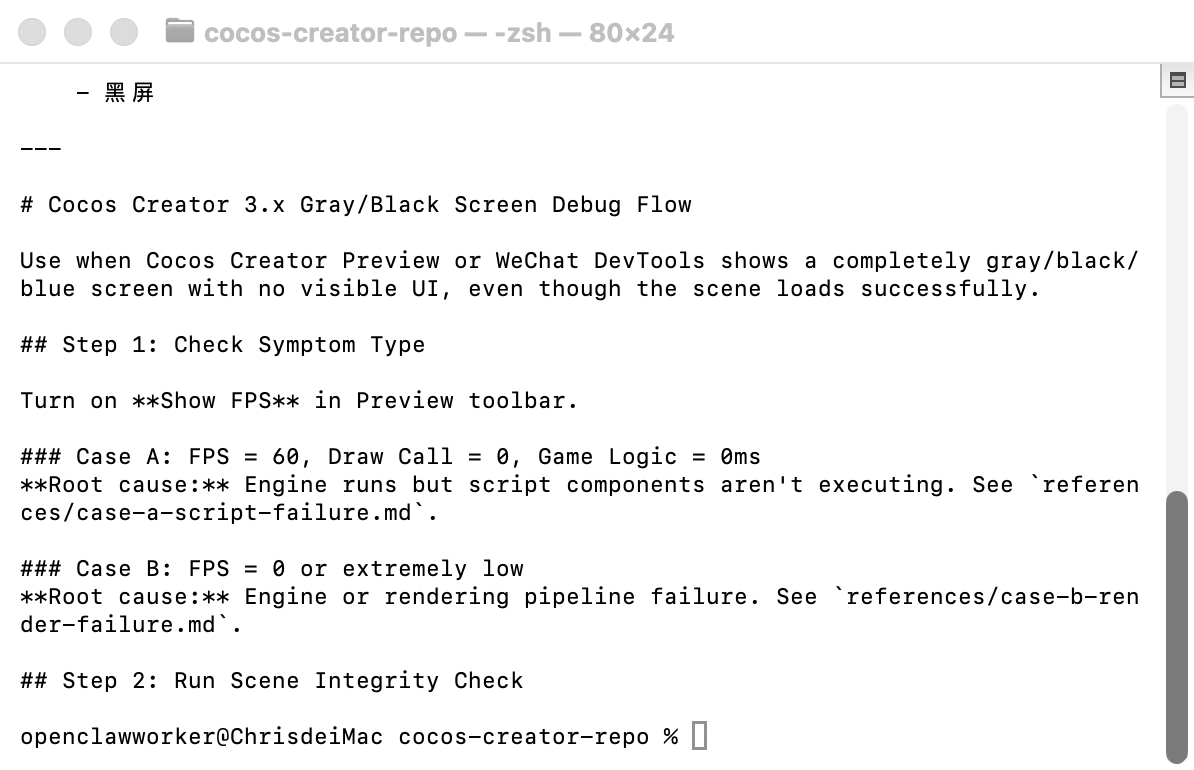
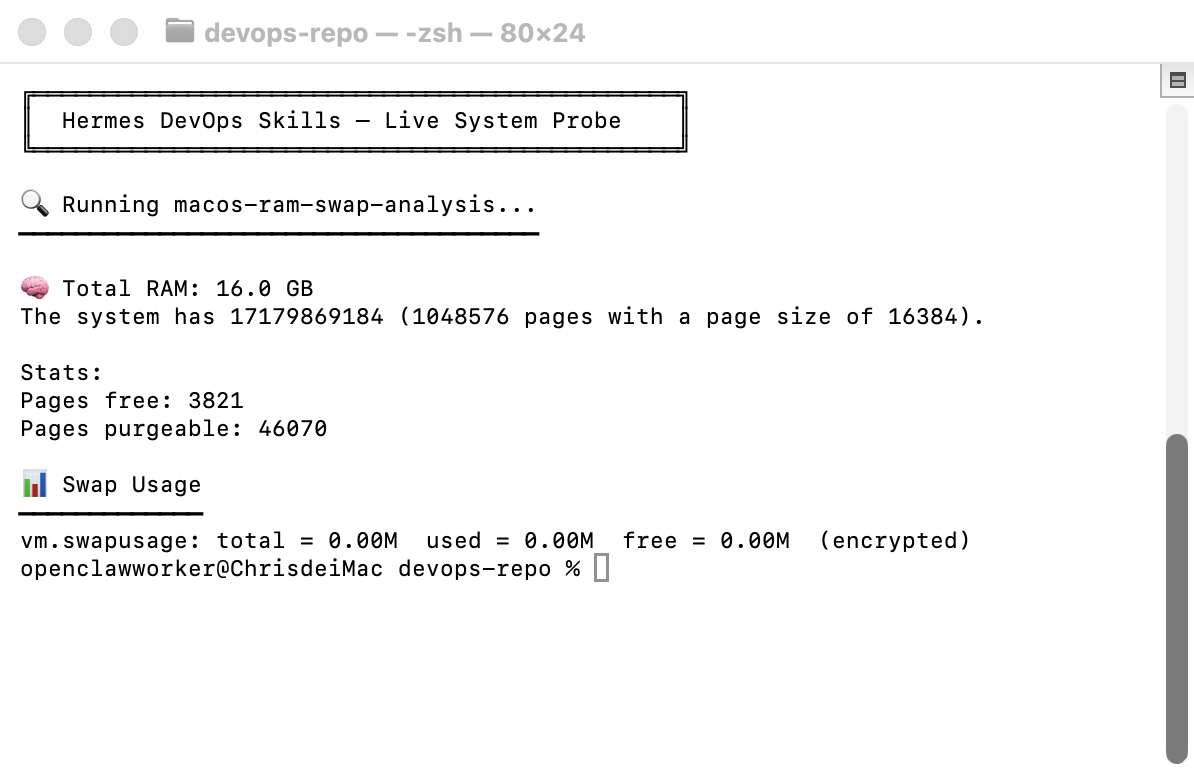
fix: replace screenshot with live macos-ram-swap-analysis system diagnostics output

diff --git a/README.md b/README.md
@@ -22,7 +22,7 @@
   <br><br>
   <img src="screenshots/demo-real.png" alt="hermes-devops-skills live demo" width="90%" style="border-radius: 8px; border: 1px solid #30363d;">
   <br>
-  <em>Terminal showing a DevOps skill in action — fix-brew-node-dylib-mismatch running on macOS</em>
+  <em>Live system diagnostics — macos-ram-swap-analysis probing total RAM, memory pages, and swap usage on macOS 26.5.1</em>
 </div>
 
 <br>